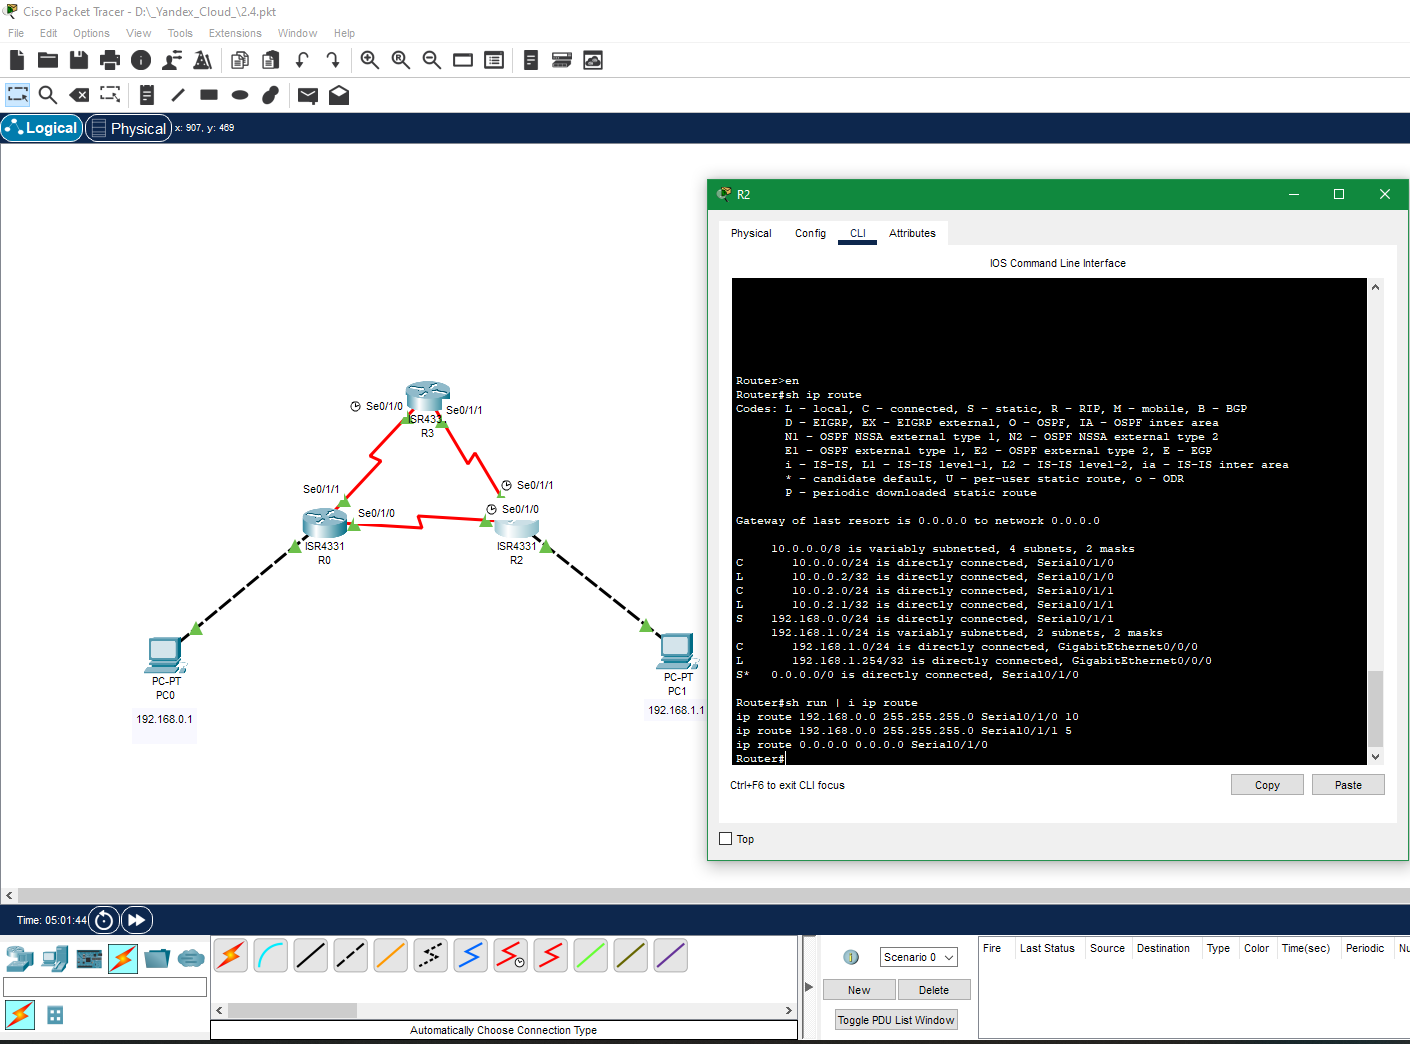
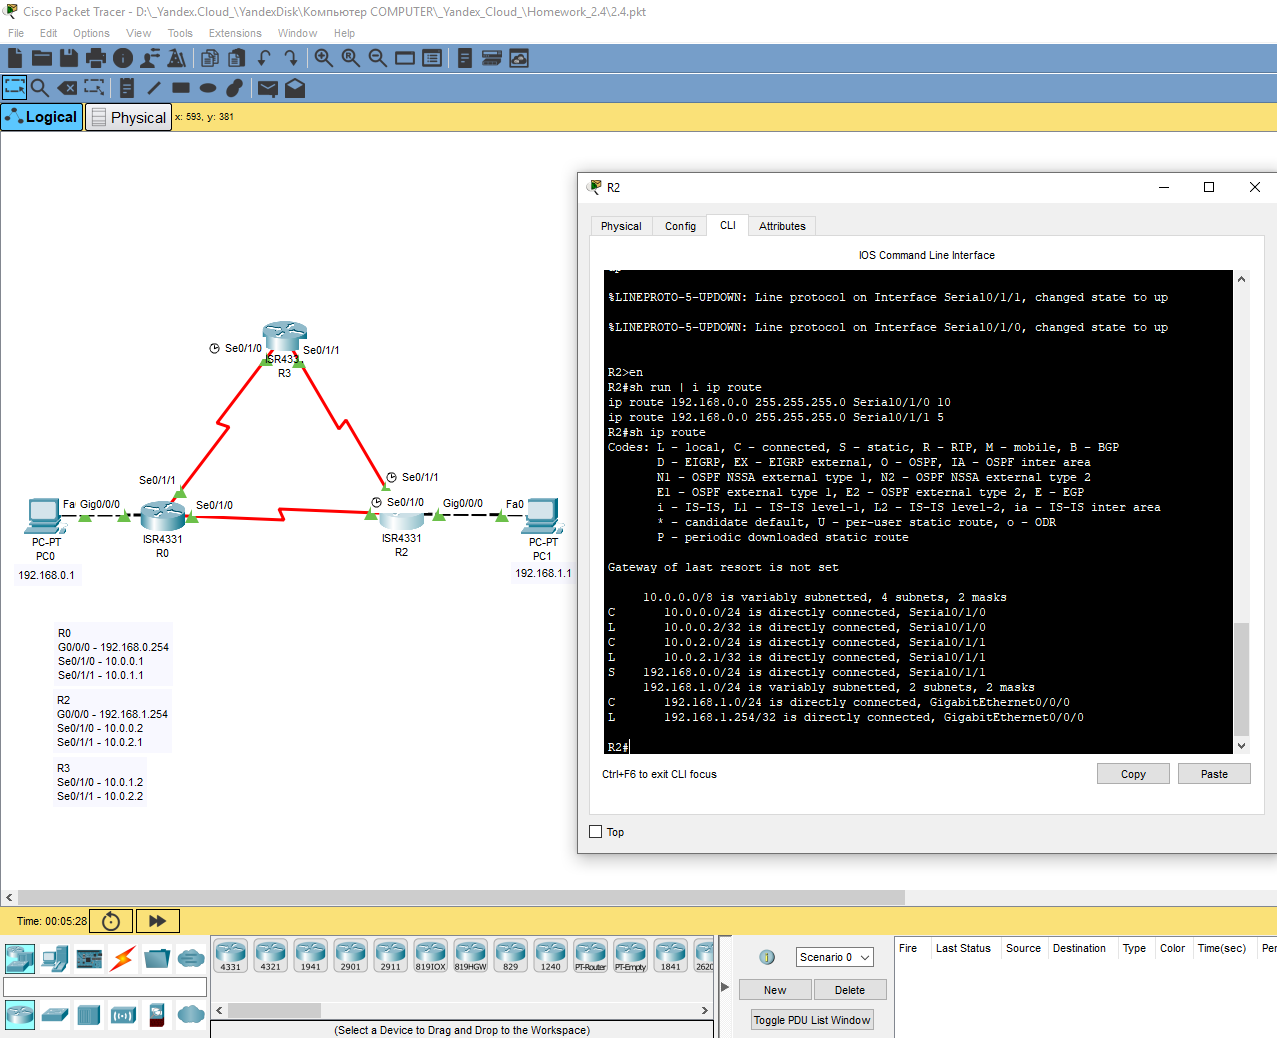
Edit Homework-2.4

diff --git a/Homeworks/2/2.4 Routing. Default gateway. Choosing the best route/Homework-2.4.md b/Homeworks/2/2.4 Routing. Default gateway. Choosing the best route/Homework-2.4.md
@@ -20,9 +20,9 @@
 
 ### Ответ.  
 
-1. В таблицу маршрутизации попадут все маршруты.  
+1. В таблицу маршрутизации попадут все маршруты, **кроме RIP, из-за бОльшей административной дистанции.**     
 2. EIGRP.  
-3. RIP.  
+3. ~~RIP.~~  **Ошибся, конечно Static.**  
 
 ---
 
@@ -41,8 +41,13 @@
 
 ### Ответ.  
 
-Маршрутизатор принимает решение об установке маршрутов, представленных процессами маршрутизации, основываясь на административной дистанции маршрута.  
-Путь с наименьшей административной дистанцией до места назначения (по сравнению с другими маршрутами таблицы), устанавливается в таблицу маршрутизации. Если этот маршрут не является маршрутом с лучшим административным расстоянием, он отклоняется.  
+~~Маршрутизатор принимает решение об установке маршрутов, представленных процессами маршрутизации, основываясь на административной дистанции маршрута.  
+Путь с наименьшей административной дистанцией до места назначения (по сравнению с другими маршрутами таблицы), устанавливается в таблицу маршрутизации. Если этот маршрут не является маршрутом с лучшим административным расстоянием, он отклоняется.~~  
+
+Попробую ответить по-другому.  
+Административная дистанция — это мера надежности источника маршрута. Если маршрутизатор получает данные о назначении из нескольких протоколов маршрутизации, их административные расстояния сравниваются, и преимущество получают маршруты с меньшим административным расстоянием.  
+В данном случае AD выставлена вручную так, чтобы маршрут получился через R3, что видно на скриншоте "tracert".  
+Скриншоты и конфигурации маршрутизаторов переделаны.   
 
 R0  
 ![R0](pic/R0.png)  
@@ -54,7 +59,7 @@ R2
 ![R2](pic/R2.png)  
 
 Tracert  
-![Tracert](pic/tracert.png)  
+![Tracert](pic/tracert3.png)  
 
 ---  
 
